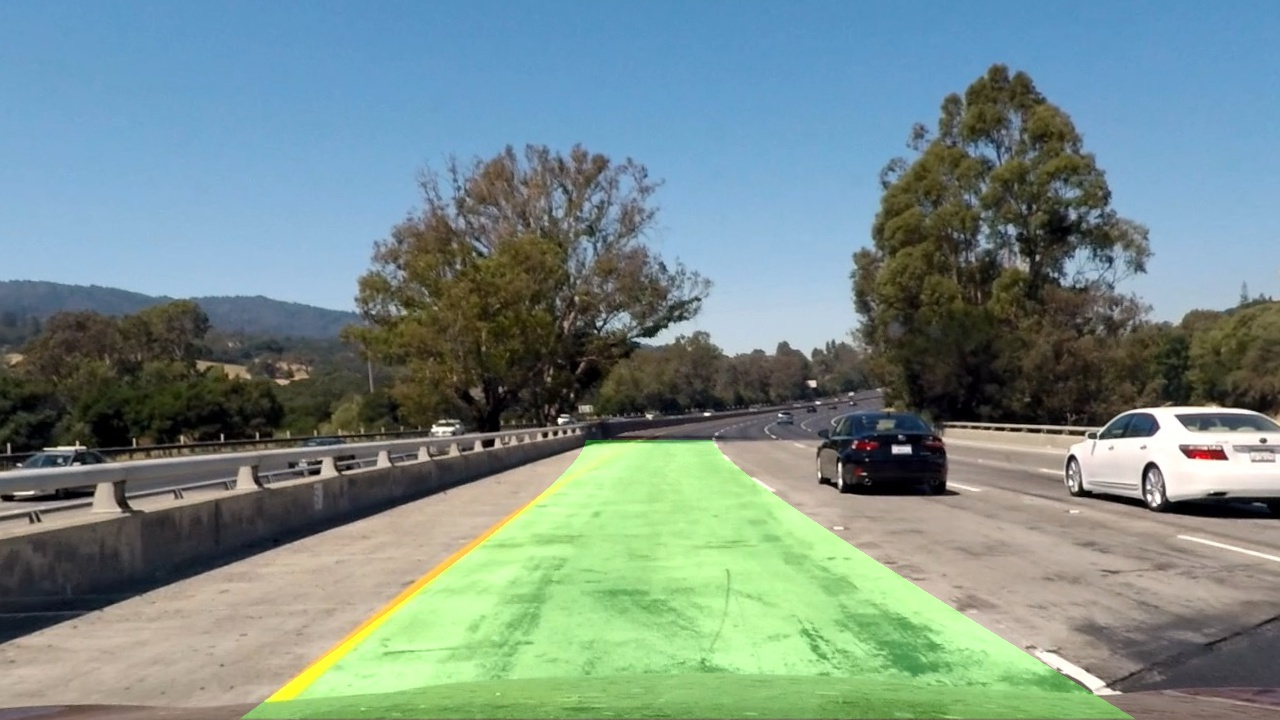
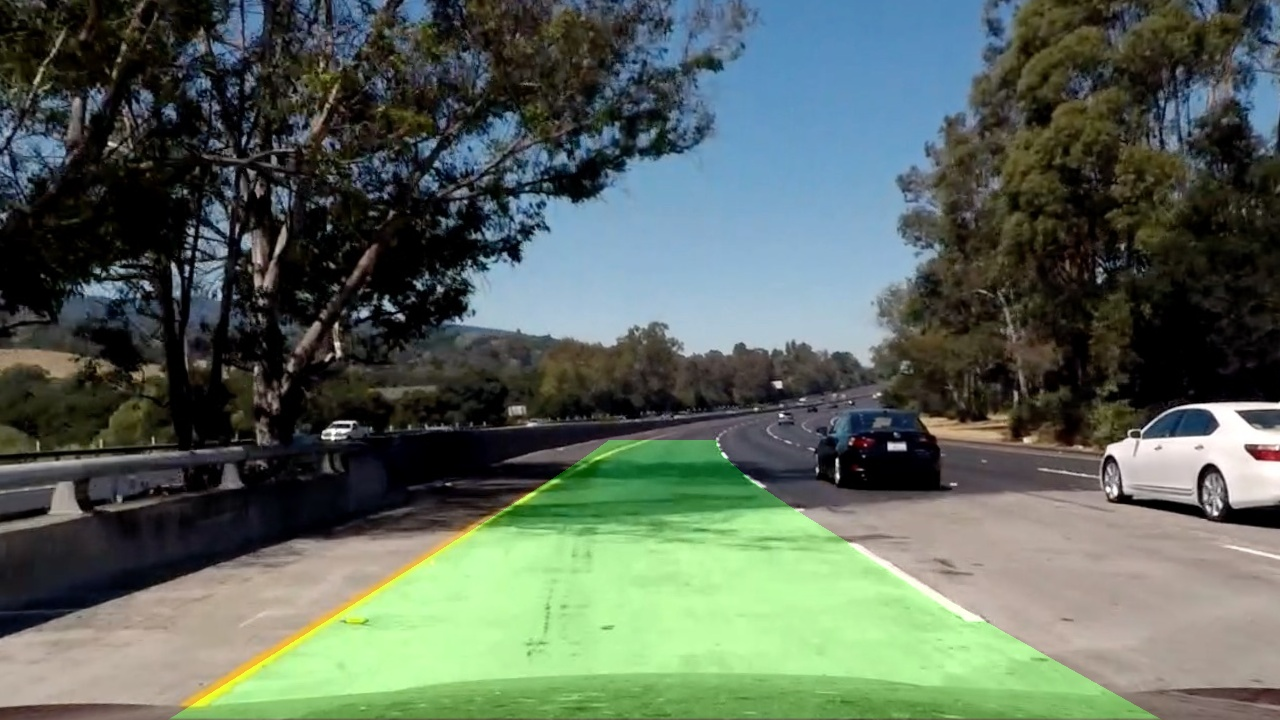
Adjusting parameters

diff --git a/Main.py b/Main.py
@@ -2,7 +2,7 @@ import numpy as np
 import cv2
 import glob
 import matplotlib.pyplot as plt
-from moviepy.editor import VideoFileClip
+#from moviepy.editor import VideoFileClip
 
 class CameraCalibration:
     def __init__(self, mtx, dist):
@@ -74,6 +74,7 @@ def color_gradient(img):
     # Note: img is the undistorted image
     hls = cv2.cvtColor(img, cv2.COLOR_RGB2HLS)
     s_channel = hls[:, :, 2]
+    h_channel = hls[:, :, 0]
 
     # Grayscale image
     # NOTE: we already saw that standard grayscaling lost color information for the lane lines
@@ -86,16 +87,22 @@ def color_gradient(img):
     scaled_sobel = np.uint8(255 * abs_sobelx / np.max(abs_sobelx))
 
     # Threshold x gradient
-    thresh_min = 20
-    thresh_max = 100
+    thresh_min = 50 #30
+    thresh_max = 100 #100
     sxbinary = np.zeros_like(scaled_sobel)
     sxbinary[(scaled_sobel >= thresh_min) & (scaled_sobel <= thresh_max)] = 1
 
-    # Threshold color channel
-    s_thresh_min = 170 # 140
+    # Threshold saturation channel
+    s_thresh_min = 140 #140
     s_thresh_max = 255
     s_binary = np.zeros_like(s_channel)
     s_binary[(s_channel >= s_thresh_min) & (s_channel <= s_thresh_max)] = 1
+
+    # Threshold hue channel
+    h_thresh_min = 90 #90
+    h_thresh_max = 100 #100
+    h_binary = np.zeros_like(h_channel)
+    h_binary[(h_channel >= h_thresh_min) & (h_channel <= h_thresh_max)] = 1
 
     # Stack each channel to view their individual contributions in green and blue respectively
     # This returns a stack of the two binary images, whose components you can see as different colors
@@ -103,7 +110,8 @@ def color_gradient(img):
 
     # Combine the two binary thresholds
     combined_binary = np.zeros_like(sxbinary)
-    combined_binary[(s_binary == 1) | (sxbinary == 1)] = 1
+    #combined_binary[(s_binary == 1) | (sxbinary == 1)] = 1
+    combined_binary[(h_binary == 1) | (sxbinary == 1)] = 1
 
     return combined_binary
 
@@ -137,7 +145,7 @@ def find_lane_pixels(binary_warped):
     # Set the width of the windows +/- margin
     margin = 100
     # Set minimum number of pixels found to recenter window
-    minpix = 50
+    minpix = 25
 
     # Set height of windows - based on nwindows above and image shape
     window_height = np.int(binary_warped.shape[0] // nwindows)
@@ -165,10 +173,8 @@ def find_lane_pixels(binary_warped):
         win_xright_high = rightx_current + margin
 
         # Draw the windows on the visualization image
-        cv2.rectangle(out_img, (win_xleft_low, win_y_low),
-                      (win_xleft_high, win_y_high), (0, 255, 0), 2)
-        cv2.rectangle(out_img, (win_xright_low, win_y_low),
-                      (win_xright_high, win_y_high), (0, 255, 0), 2)
+        cv2.rectangle(out_img, (win_xleft_low, win_y_low), (win_xleft_high, win_y_high), (0, 255, 0), 2)
+        cv2.rectangle(out_img, (win_xright_low, win_y_low), (win_xright_high, win_y_high), (0, 255, 0), 2)
 
         ### TO-DO: Identify the nonzero pixels in x and y within the window ###
         good_left_inds = ((nonzeroy >= win_y_low) & (nonzeroy < win_y_high) &
@@ -187,11 +193,12 @@ def find_lane_pixels(binary_warped):
         ### TO-DO: If you found > minpix pixels, recenter next window ###
         ### (`right` or `leftx_current`) on their mean position ###
         if len(good_left_inds) > minpix:
+            print('Length: {}'.format(len(good_left_inds)))
             leftx_current = np.int(np.mean(nonzerox[good_left_inds]))
         if len(good_right_inds) > minpix:
             rightx_current = np.int(np.mean(nonzerox[good_right_inds]))
 
-        pass  # Remove this when you add your function
+
 
     # Concatenate the arrays of indices (previously was a list of lists of pixels)
     try:
@@ -270,25 +277,24 @@ def print_lane(undist, warped, ploty, left_fitx, right_fitx, transform):
 
     # Warp the blank back to original image space using inverse perspective matrix (Minv)
     new_warp = transform.transform_inv(color_warp)
-    #newwarp = cv2.warpPerspective(color_warp, Minv, (image.shape[1], image.shape[0]))
+
     # Combine the result with the original image
     result = cv2.addWeighted(undist, 1, new_warp, 0.3, 0)
     return result
-    #cv2.imwrite('lane.jpg', result)
 
 
 def find_lane(img):
-    #test_img = cv2.imread('TestImages/test1.jpg')
+    img = cv2.imread('TestImages/test5.jpg')
     undist = calibration.undistort(img)
     combined_binary = color_gradient(undist)
-    #print_binary(combined_binary, 'color_and_gradient.jpg')
+    print_binary(combined_binary, 'color_and_gradient.jpg')
 
     transform = perspective_transform()
     warped_binary = transform.transform(combined_binary)
-    #print_binary(warped_binary, 'warped.jpg')
+    print_binary(warped_binary, 'warped.jpg')
 
     ploty, left_fit, right_fit, left_fitx, right_fitx, line_img = fit_polynomial(warped_binary)
-    #cv2.imwrite("polynom.jpg", line_img)
+    cv2.imwrite("polynom.jpg", line_img)
     #left_curverad, right_curverad = measure_curvature_pixels(ploty, left_fit, right_fit)
 
     #print('Left radius: {:.0f}m'.format(left_curverad))
@@ -300,6 +306,9 @@ def find_lane(img):
 
 calibration = calibrate_camera()
 #print_calibration(calibration)
+lane_img = find_lane(None)
+cv2.imwrite('lane.jpg', lane_img)
+exit(0)
 
 input_video = VideoFileClip('project_video.mp4')
 output_video = input_video.fl_image(find_lane)
